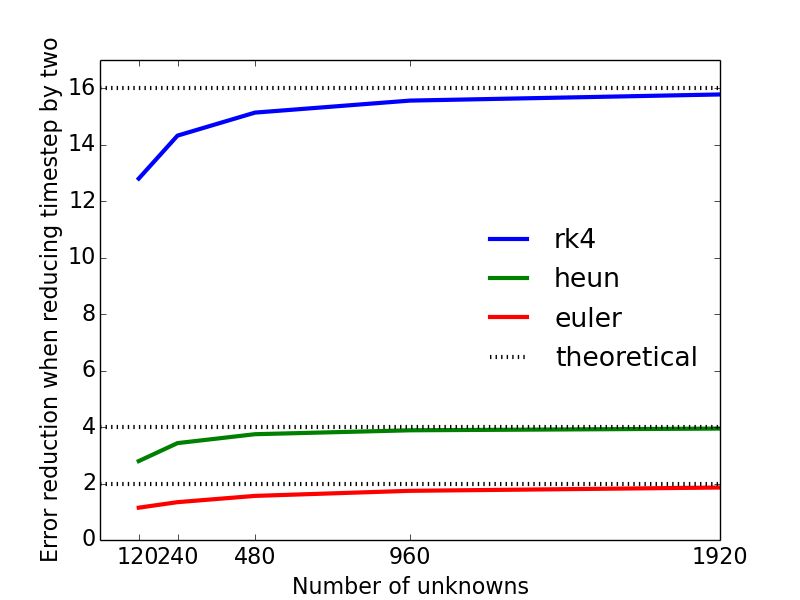
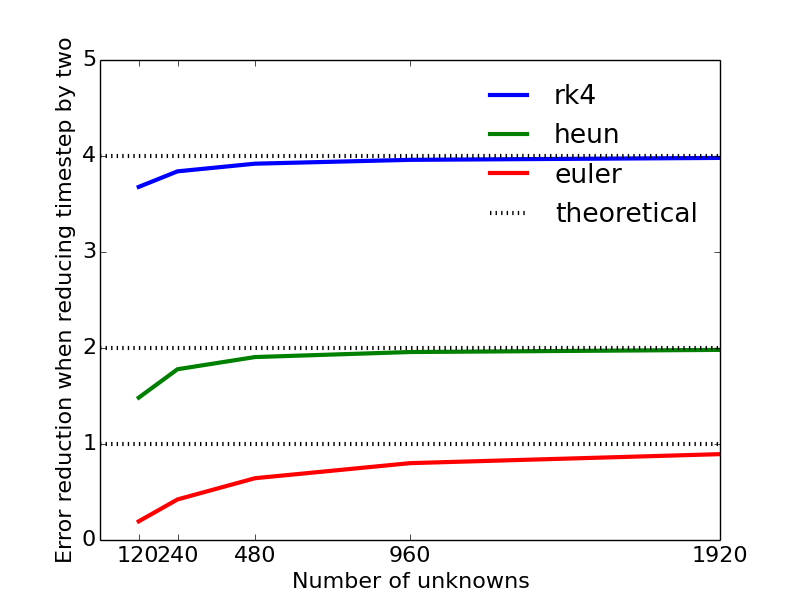
updates

diff --git a/allfiles/digital_compendium/chapter1/programs_and_modules/ODEschemes.py b/allfiles/digital_compendium/chapter1/programs_and_modules/ODEschemes.py
@@ -193,7 +193,7 @@ if __name__ == '__main__':
     # Function for convergence test
     def test_convergence():
         """ Test convergence rate of the methods """
-        from numpy import linspace, size, abs, log10, mean
+        from numpy import linspace, size, abs, log10, mean, log2
         figure()
         tol = 1E-15
         T = 8.0   # end of simulation
@@ -218,7 +218,7 @@ if __name__ == '__main__':
             for i in range(Ndts+1):
                 z = scheme(f3, z0, time)   
                 abs_error = abs(u_nonlin_analytical(z0, time)-z[:,0])
-                log_error = log10(abs_error[1:]) # Drop first element as it is always zero to avoid log10-problems
+                log_error = log2(abs_error[1:]) # Drop first element as it is always zero to avoid log10-problems
                 max_log_err = max(log_error)
                 plot(time[1:], log_error, linestyles[i]+colors[iclr], markevery=N/5)
                 legends.append(scheme.func_name +': N = ' + str(N))
@@ -250,19 +250,19 @@ if __name__ == '__main__':
         
         figure()
         for key in all_errors:
-            plot(N_list, 10**(np.asarray(all_errors[key])))
+            plot(N_list, (np.asarray(all_errors[key])))
         
         # Plot theoretical error reductions for first, second and fourth order schemes
+        axhline(1.0, xmin=0, xmax=N, linestyle=':', color='k')
         axhline(2.0, xmin=0, xmax=N, linestyle=':', color='k')
         axhline(4.0, xmin=0, xmax=N, linestyle=':', color='k')
-        axhline(16.0, xmin=0, xmax=N, linestyle=':', color='k')
         xticks(N_list)
         legends = all_errors.keys()
         legends.append('theoretical') 
         legend(legends, loc='best', frameon=False)
         xlabel('Number of unknowns')
         ylabel('Error reduction when reducing timestep by two')
-        axis([0, max(N_list), 0, 17])
+        axis([0, max(N_list), 0, 5])
         savefig('ConvergenceODEschemes.png', transparent=True)
         
     def plot_ODEschemes_solutions():
@@ -286,8 +286,6 @@ if __name__ == '__main__':
 
         plot(time, u_nonlin_analytical(z0, time))
         legends.append('analytical')
-
-
         legend(legends, loc='best', frameon=False)
 
 
